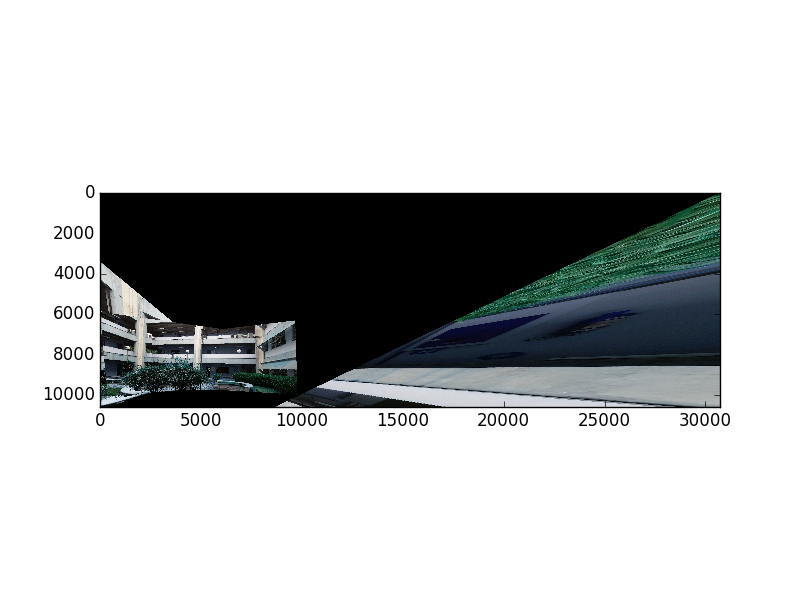
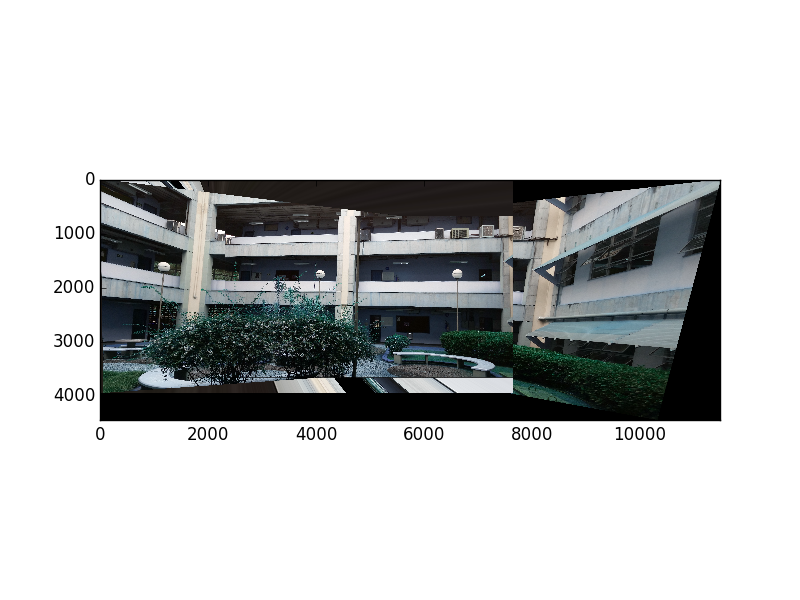
Mask corrected.

Changed region(s): [[0.0625, 0.3, 0.9062, 0.75]]

diff --git a/tp2.py b/tp2.py
@@ -4,6 +4,8 @@ import numpy as np
 import math
 import matplotlib.pyplot as plt
 
+MASK_SIZE = 3000
+
 MAX_HEIGHT = 1000.00
 
 SIFT_SIFT = 0
@@ -113,7 +115,7 @@ class Method:
             self._matcher = cv2.BFMatcher(cv2.NORM_HAMMING, crossCheck=True)
 
         if method == SIFT_SIFT:
-            self._detector = cv2.SIFT()
+            self._detector = cv2.SIFT(400)
             # Faster than brute force, considering that sift is a very expensive detector
             # index_params = dict(algorithm=FLANN_INDEX_KDTREE, trees=5)
             # search_params = dict(checks=64)
@@ -121,7 +123,7 @@ class Method:
             self._matcher = cv2.BFMatcher()
 
         if method == ORB_ORB:
-            self._detector = cv2.ORB()
+            self._detector = cv2.ORB(400)
             # HAMMING because orb create a set binary descriptors
             self._matcher = cv2.BFMatcher(cv2.NORM_HAMMING, crossCheck=True)
 
@@ -185,7 +187,7 @@ class ImageBlock:
             mask[:, :left] = 255
 
         if right is not None:
-            mask[img_h - right:, :] = 255
+            mask[:, :img_w - right] = 255
 
         # detecting key points and regions
         detector = Method().get_detector()
@@ -321,19 +323,19 @@ class Mosaic:
         # for b, t in img_combinations:
 
         block34 = self.combine(block_list[3], block_list[2], 'img34.png')
-        block34.detect(left=5000)
+        block34.detect(left=MASK_SIZE)
         block234 = self.combine(block34, block_list[1], 'img234.png')
         del block34
 
-        block234.detect(right=5000)
+        block234.detect(right=MASK_SIZE)
         block2345 = self.combine(block234, block_list[4], 'img2345.png')
         del block234
 
-        block2345.detect(right=5000)
+        block2345.detect(right=MASK_SIZE)
         block23456 = self.combine(block2345, block_list[5], 'img123456.png')
         del block2345
 
-        block23456.detect(left=5000)
+        block23456.detect(left=MASK_SIZE)
         block123456 = self.combine(block23456, block_list[0], 'img12345.png')
         del block23456
 
